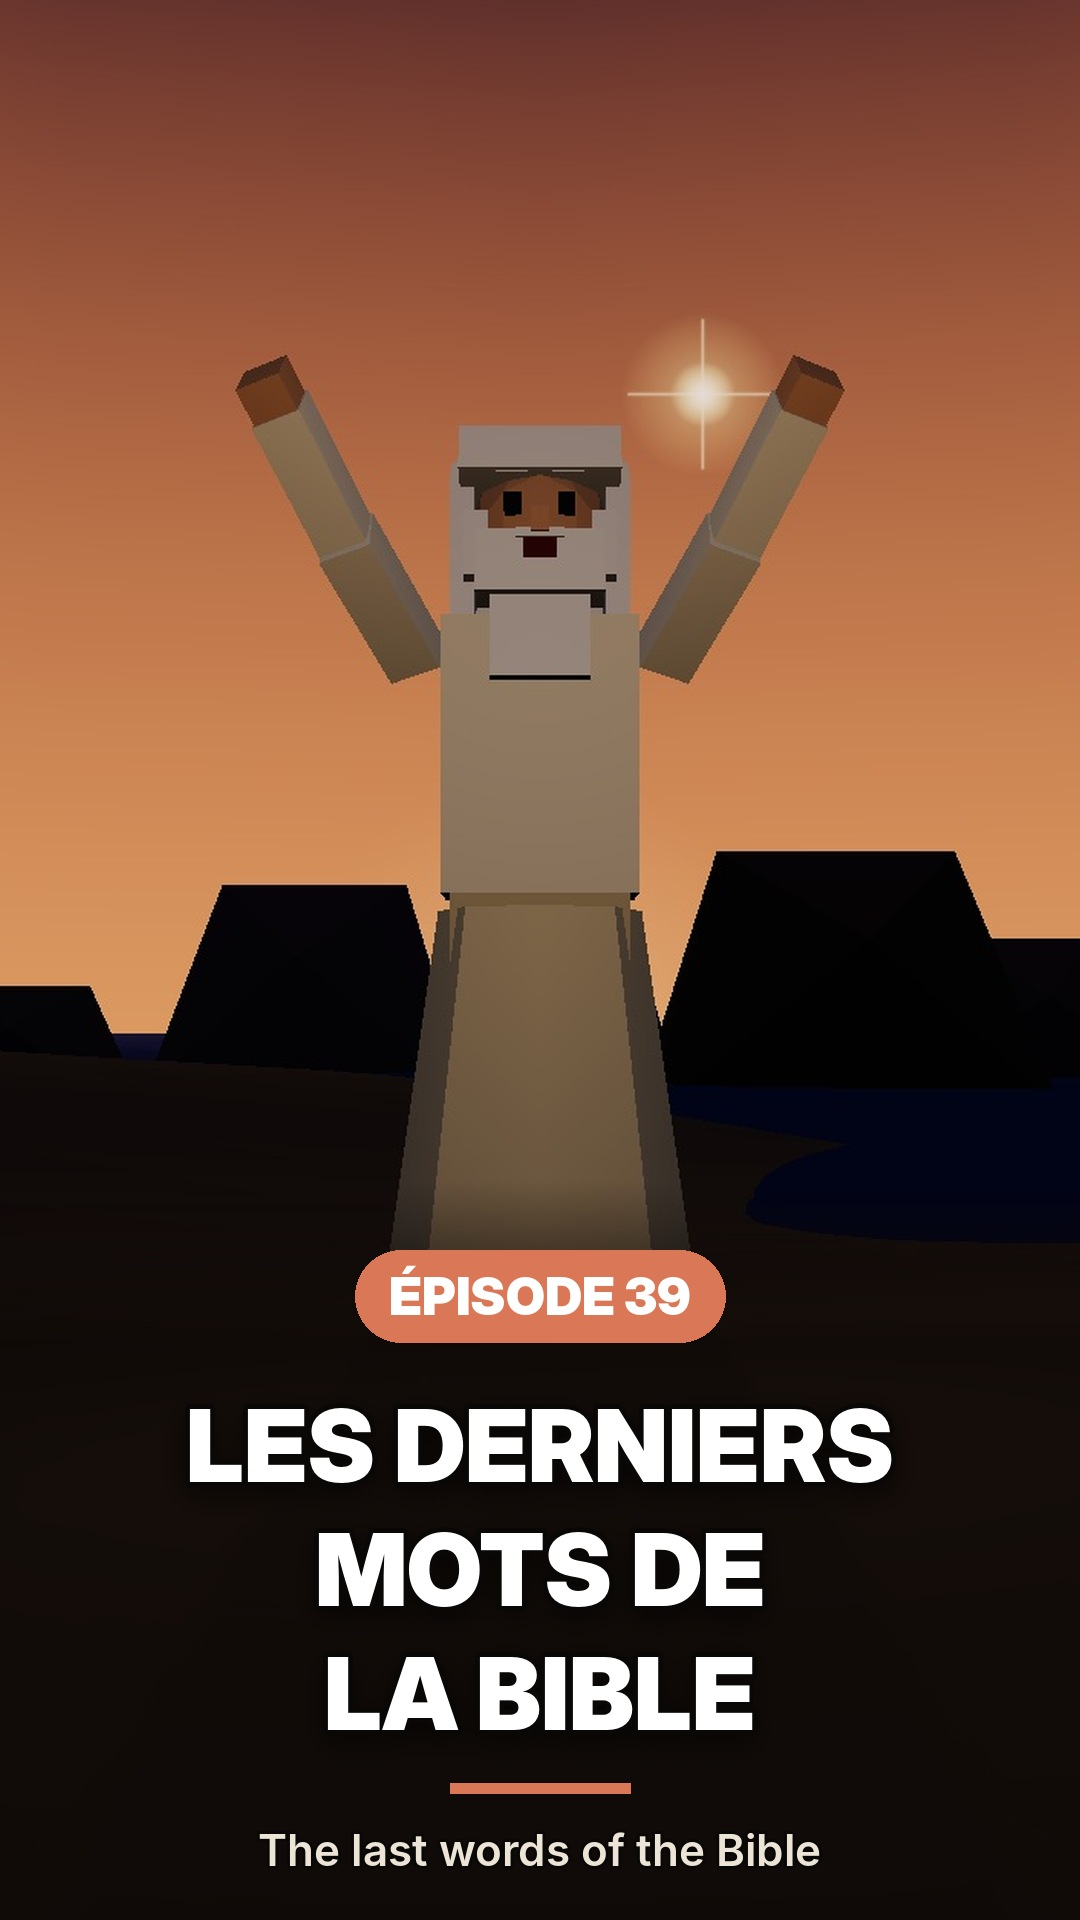
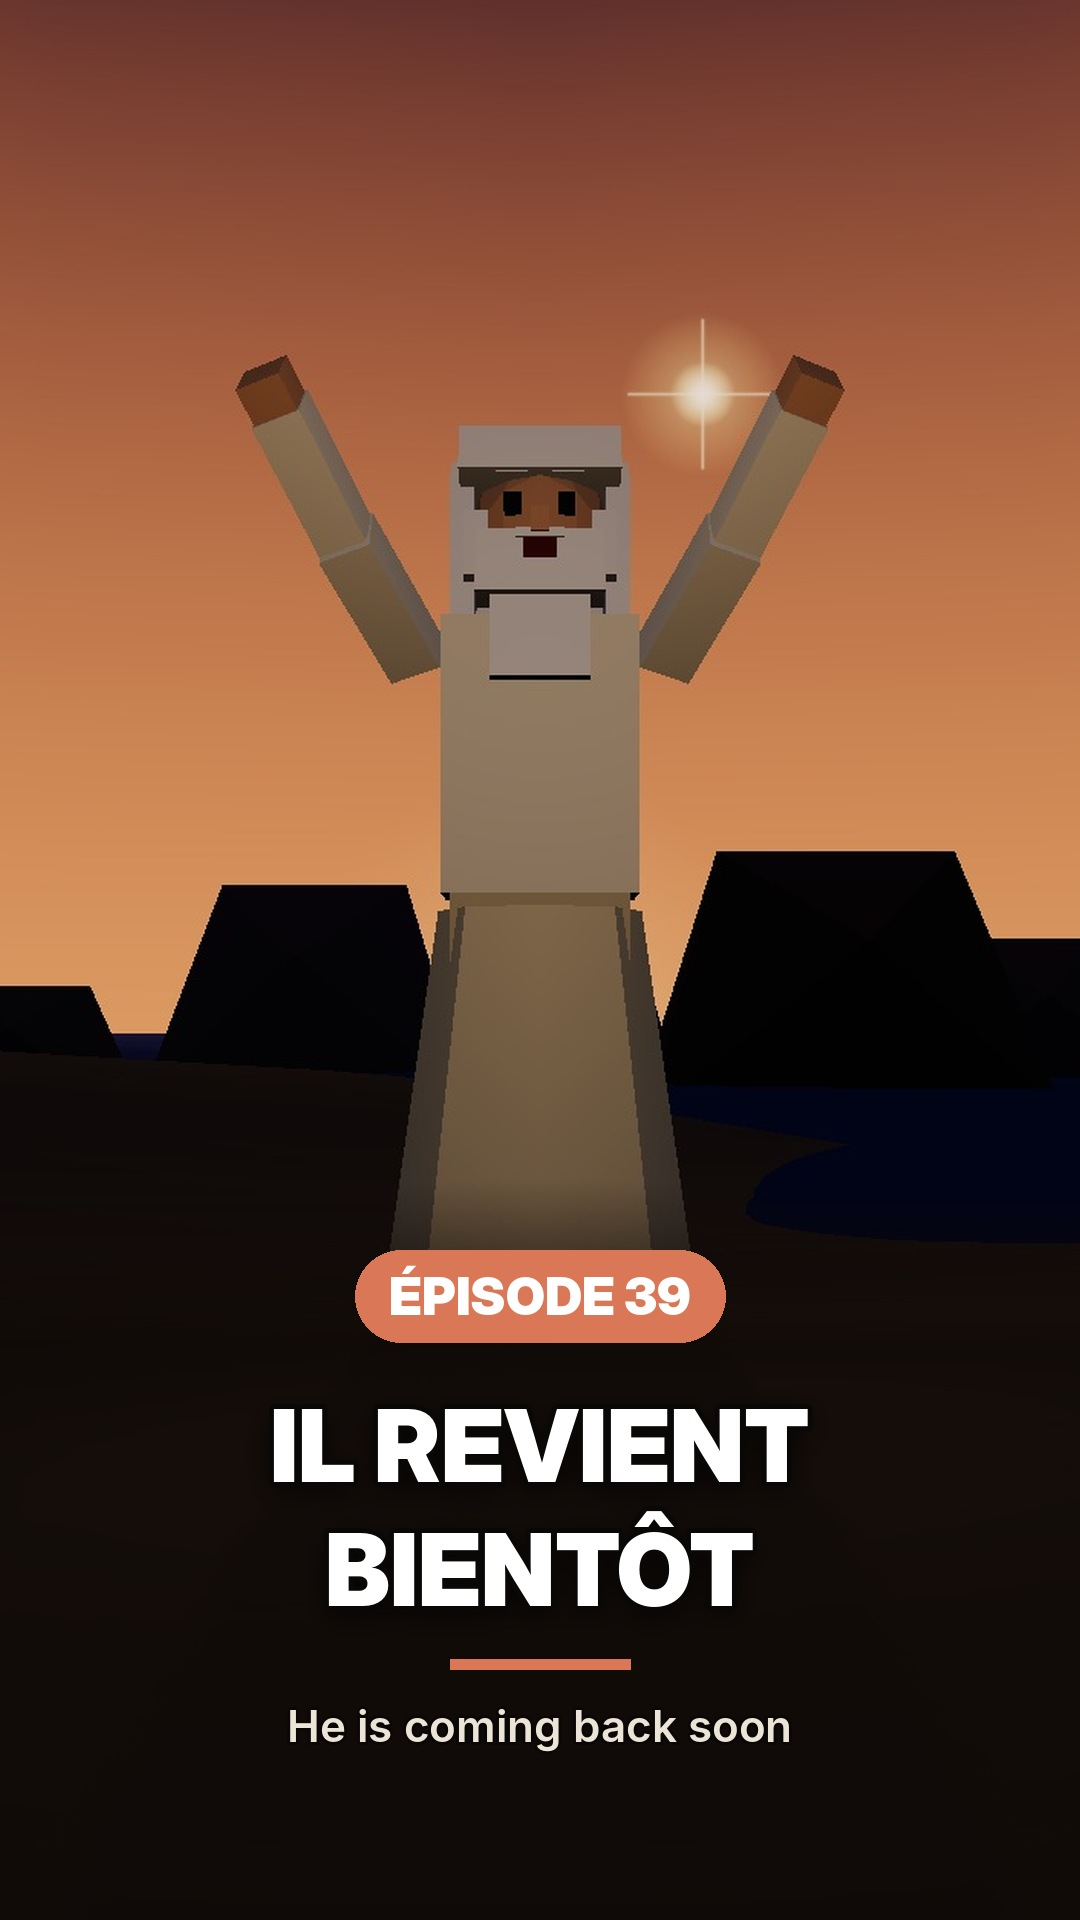
Épisode 39 : titre « IL REVIENT BIENTÔT » ; la narration précise que c'est Jésus qui parle
Claude-Session: https://claude.ai/code/session_01MdC9EMAfjttt8kZ4HV5TxG

Changed region(s): [[0.1528, 0.7188, 0.825, 0.9688]]

diff --git a/ep39/make_cover39.py b/ep39/make_cover39.py
@@ -17,7 +17,7 @@ for y in range(1920):
     k = max(0.0, min(1.0, (y - 1180) / 260)); gd.line([(0, y), (1080, y)], fill=int(215 * min(1, k * 1.6)))
 im = Image.composite(Image.new('RGB', im.size, (12, 8, 6)), im, grad)
 d = ImageDraw.Draw(im)
-f = ImageFont.truetype(BOLD, 100); lines = ['LES DERNIERS', 'MOTS DE', 'LA BIBLE']
+f = ImageFont.truetype(BOLD, 100); lines = ['IL REVIENT', 'BIENTÔT']
 fb = ImageFont.truetype(BOLD, 52); lab = 'ÉPISODE 39'; tw = d.textlength(lab, font=fb)
 y0 = 1250
 d.rounded_rectangle([(540 - tw / 2 - 34, y0), (540 + tw / 2 + 34, y0 + 92)], radius=46, fill=ORANGE)
@@ -29,6 +29,6 @@ sh = sh.filter(ImageFilter.GaussianBlur(14)); im.paste(sh, (0, 8), sh); d = Imag
 for i, ln in enumerate(lines): d.text((540, y + i * lh), ln, font=f, fill='white', anchor='ma', stroke_width=5, stroke_fill=(10, 8, 6))
 yb = y + len(lines) * lh + 26
 d.rectangle([(450, yb), (630, yb + 10)], fill=ORANGE)
-d.text((540, yb + 40), 'The last words of the Bible', font=ImageFont.truetype(MED, 44), fill=(235, 228, 215), anchor='ma', stroke_width=3, stroke_fill=(10, 8, 6))
+d.text((540, yb + 40), 'He is coming back soon', font=ImageFont.truetype(MED, 44), fill=(235, 228, 215), anchor='ma', stroke_width=3, stroke_fill=(10, 8, 6))
 im.save(os.path.join(OUT, 'couverture_ep39.jpg'), quality=93)
 print('ok')

diff --git a/ep39/script_ep39.py b/ep39/script_ep39.py
@@ -18,7 +18,7 @@ SCRIPT = [
          "In this series, we go back through the Bible scene by scene, from the last page to the very first. And we start… at the end."),
     ], "happy"),
     ("cue", "title"),
-    ("title", "LES DERNIERS MOTS\\NDE LA BIBLE", "The last words of the Bible", 2.8),
+    ("title", "IL REVIENT\\NBIENTÔT", "He is coming back soon", 2.8),
     ("pause", 2.6),
 
     ("scene", "patmos"),
@@ -78,8 +78,8 @@ SCRIPT = [
 
     ("scene", "bientot"),
     ("say", "claude", [
-        ("Et enfin, les toutes dernières paroles :",
-         "And finally, the very last words:"),
+        ("Et enfin, Jésus prononce ses toutes dernières paroles :",
+         "And finally, Jesus speaks his very last words:"),
     ], "neutral"),
     ("say", "voix", [
         ("« Oui, je viens bientôt. »", "\"Surely I come quickly.\""),

diff --git a/ep16/NOTES_SERIE.md b/ep16/NOTES_SERIE.md
@@ -82,6 +82,7 @@
 - Titre accrocheur (pas « épisode 1 », pas le nom du livre seul) ; la référence exacte (livre, chapitre, versets) en bas de l'écran
   et dans la légende. Citations : Louis Segond 1910 (fr), King James (sous-titres en) — domaine public.
 - Ton « selon les textes », sans prendre parti ; scènes imaginées signalées ; une voix grave (fr-FR-HenriNeural) lit les citations.
-- Plan prévu : 39 Ap 22,16-21 · 40 Ap 22,6-15 · 41 Ap 22,1-5 · 42 Ap 21,9-27 · 43 Ap 21,1-8 · 44 Ap 20,11-15 · 45 Ap 20,7-10
+- Plan prévu : 39 « IL REVIENT BIENTÔT » (Ap 22,16-21) · 40 Ap 22,6-15 · 41 Ap 22,1-5 · 42 Ap 21,9-27 · 43 Ap 21,1-8 · 44 Ap 20,11-15 · 45 Ap 20,7-10
   · 46 Ap 20,1-6 · 47 Ap 19,11-21 · … jusqu'à Genèse 1,1. Ensuite les lettres : ne garder que les passages qui racontent une scène.
 - Le brouillon « 5e dimension » est rangé dans brouillon_5e_dimension/ (à reprendre plus tard si Mr A le demande).
+- Titres : raconter comme une histoire, et dire clairement QUI agit (ép. 39 : « IL REVIENT BIENTÔT », choisi par Mr A).
